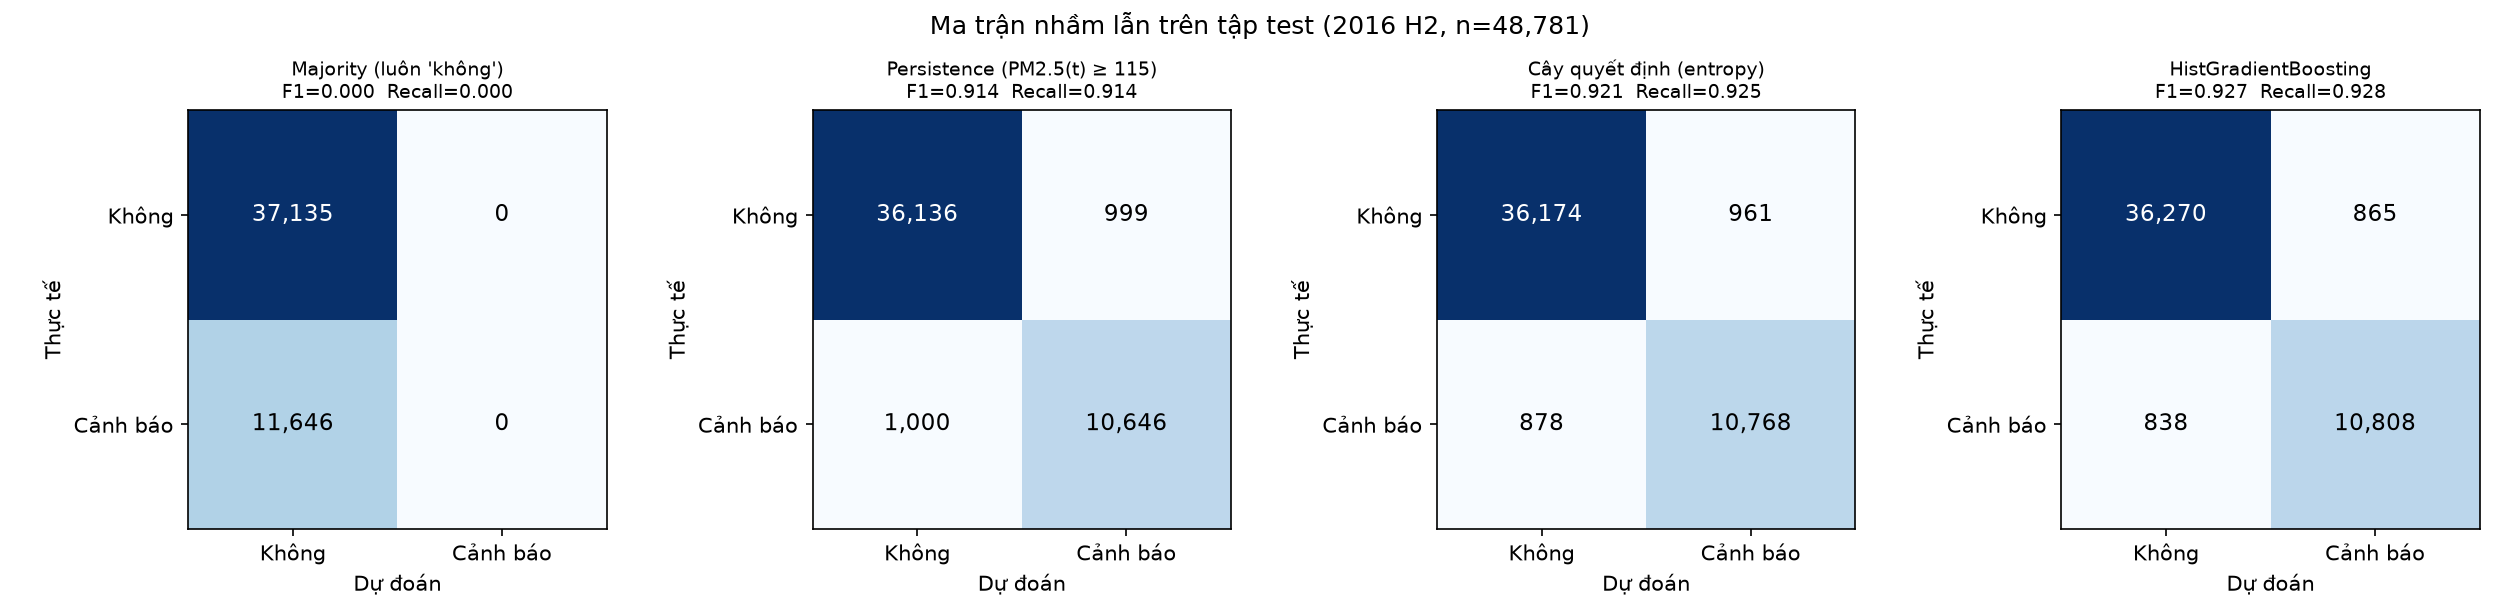
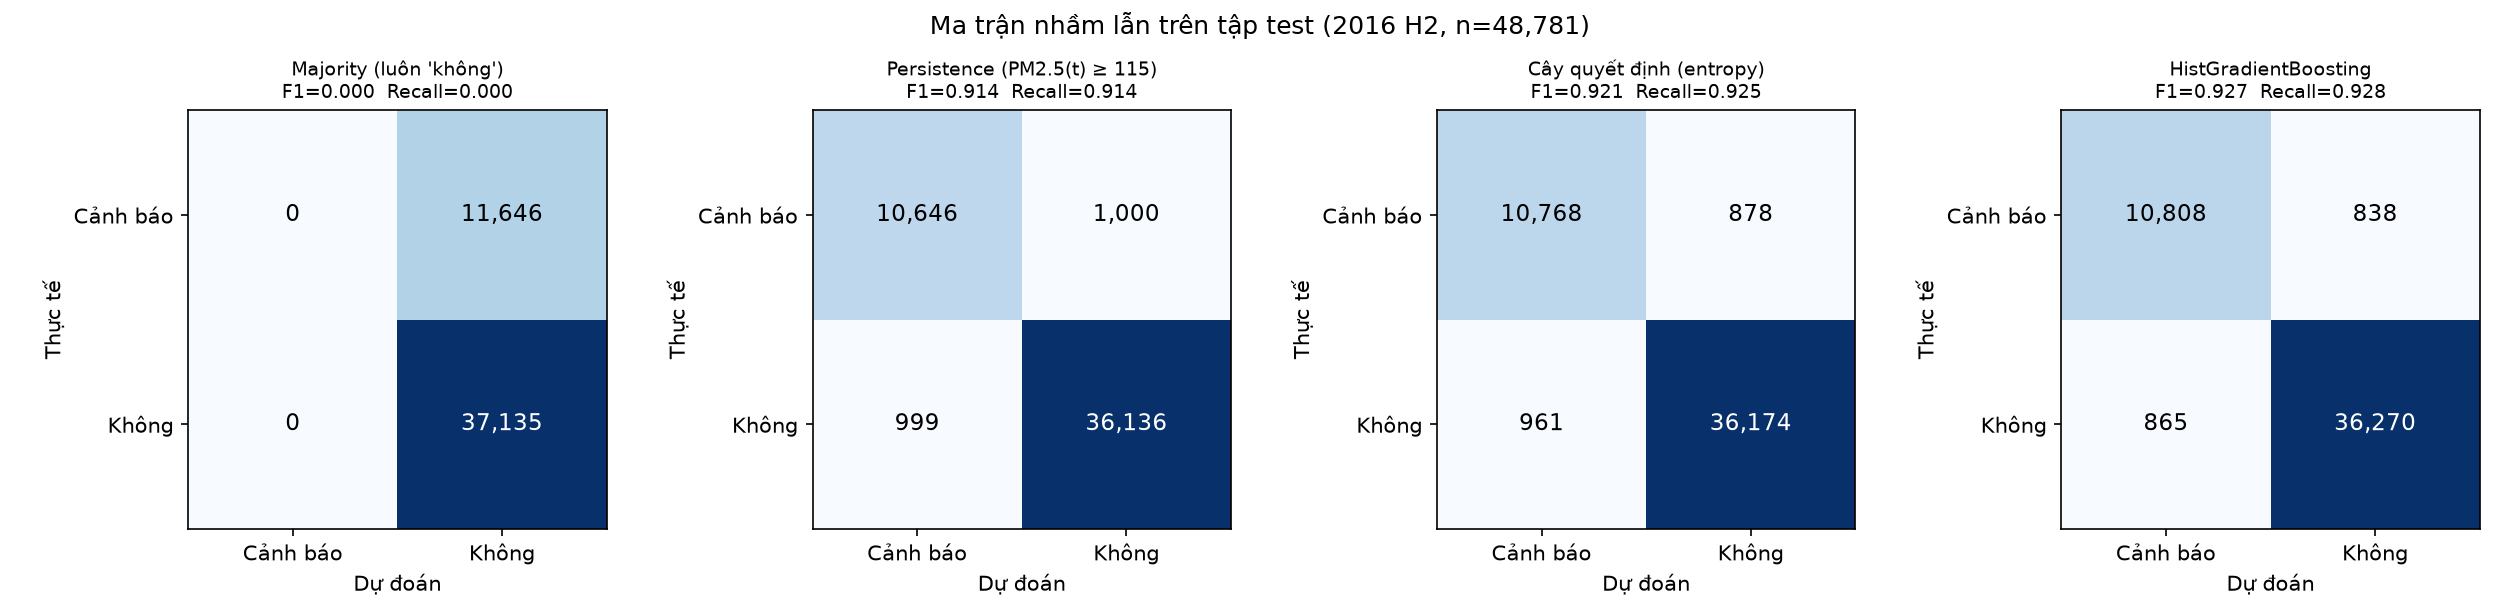
chore(mining): TP-first confusion matrix figure, rerun artifacts
The confusion-matrix figure now puts the positive class first so TP sits
top-left, as on /canh-bao. Artifacts come from `run_all.py --from classify`
at HORIZON_HOURS = 1; metrics are unchanged (test F1 0.927 vs persistence
0.914). A t+6 variant was tried and reverted.

diff --git a/scripts/run_classification.py b/scripts/run_classification.py
@@ -92,14 +92,15 @@ def _plot_confusion(results, df: pd.DataFrame, path: Path) -> None:
     fig, axes = plt.subplots(1, len(results), figsize=(4.2 * len(results), 4))
     for ax, r in zip(axes, results):
         m = r.metrics["test"]
-        cm = np.array([[m["tn"], m["fp"]], [m["fn"], m["tp"]]])
+        # Positive class first, so TP sits top-left as on the dashboard's /canh-bao page.
+        cm = np.array([[m["tp"], m["fn"]], [m["fp"], m["tn"]]])
         ax.imshow(cm, cmap="Blues")
         for i in range(2):
             for j in range(2):
                 ax.text(j, i, f"{cm[i, j]:,}", ha="center", va="center",
                         color="white" if cm[i, j] > cm.max() / 2 else "black", fontsize=11)
-        ax.set_xticks([0, 1], ["Không", "Cảnh báo"])
-        ax.set_yticks([0, 1], ["Không", "Cảnh báo"])
+        ax.set_xticks([0, 1], ["Cảnh báo", "Không"])
+        ax.set_yticks([0, 1], ["Cảnh báo", "Không"])
         ax.set_xlabel("Dự đoán")
         ax.set_ylabel("Thực tế")
         ax.set_title(f"{MODEL_LABELS[r.name]}\nF1={m['f1']:.3f}  Recall={m['recall']:.3f}", fontsize=9)
